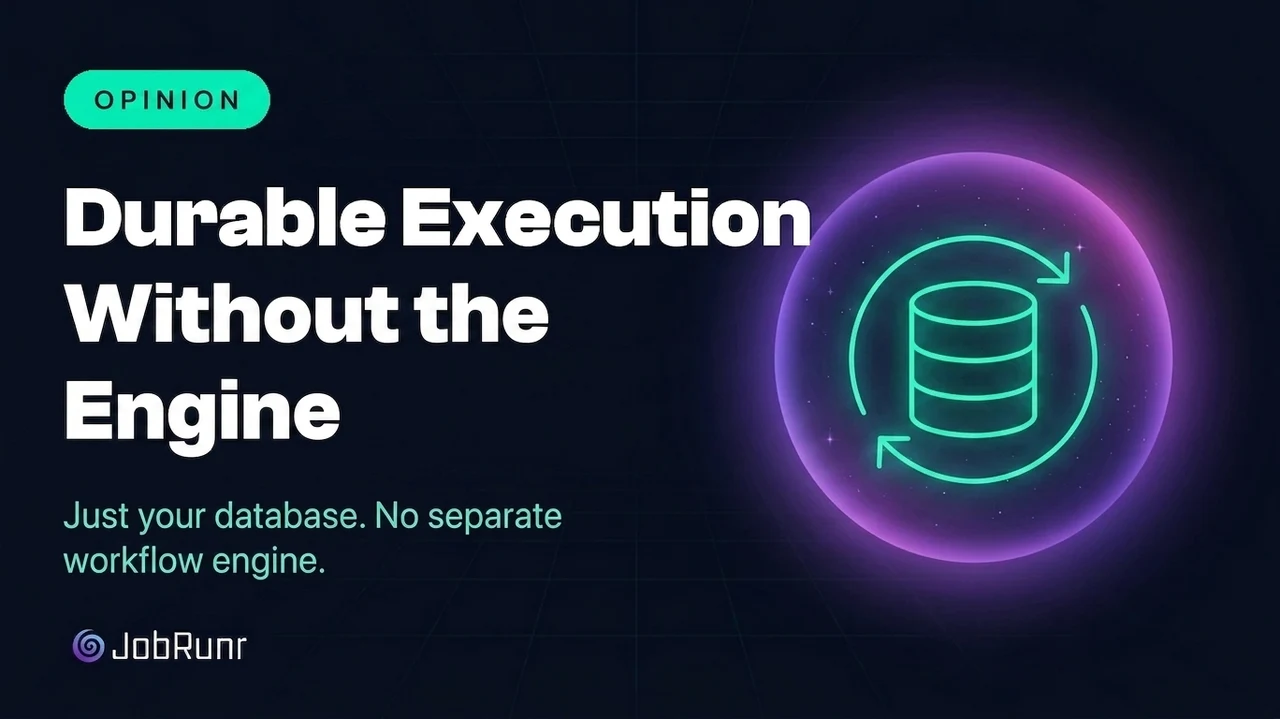
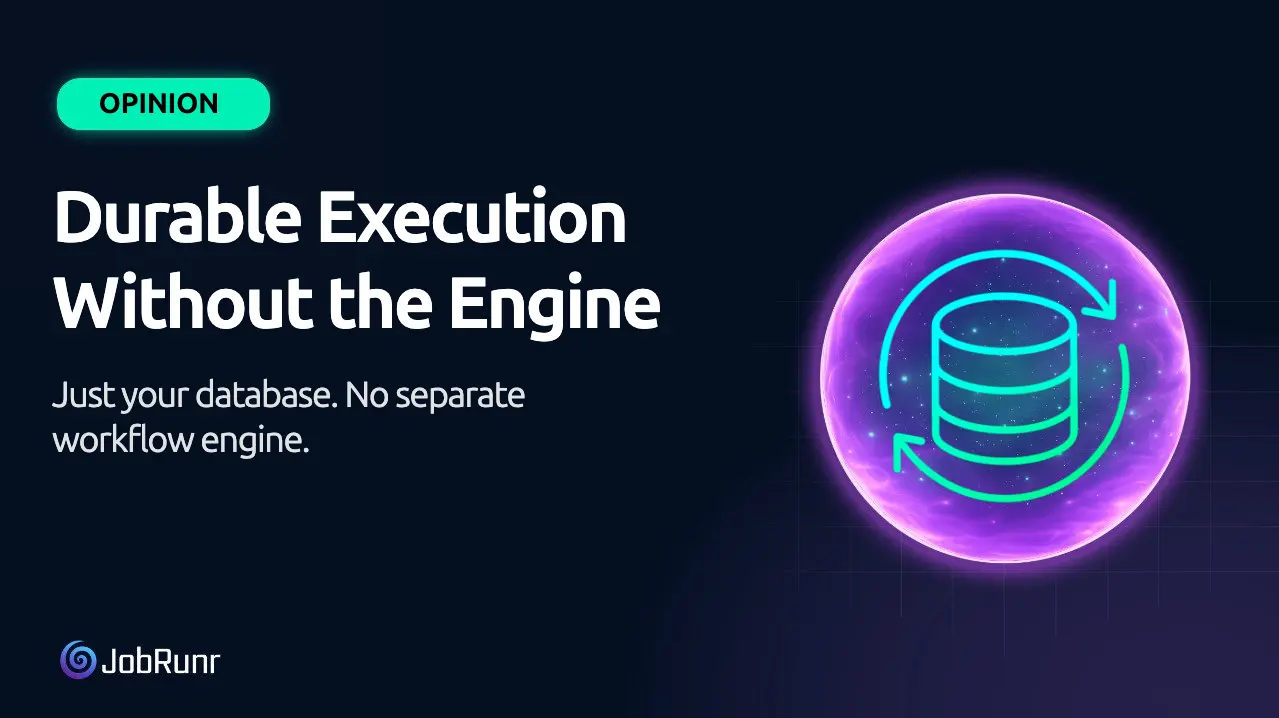
durable execution blogpost

diff --git a/content/english/blog/durable-execution-without-a-workflow-engine.md b/content/english/blog/durable-execution-without-a-workflow-engine.md
@@ -5,9 +5,8 @@ keywords: ["durable execution", "durable execution java", "temporal alternative 
 images:
   - /blog/durable-execution-without-a-workflow-engine.webp
 image: /blog/durable-execution-without-a-workflow-engine.webp
-date: 2026-06-11T10:00:00+02:00
+date: 2026-07-09T10:00:00+02:00
 author: "Nicholas D'hondt"
-draft: true
 tags:
   - blog
   - durable execution
@@ -17,31 +16,33 @@ tags:
 
 Durable execution is having a moment, and most of the moment comes with a sales pitch attached. Write ordinary code, the story goes, and it will survive any crash, any restart, any bad deploy. That part is true and genuinely worth wanting. The part that quietly rides along with it is the assumption that to get there you need to stand up a new distributed system next to the one you already run.
 
-We covered the fundamentals in [What Is Durable Execution?]({{<ref "blog/what-is-durable-execution-java.md">}}), so this post takes the harder question head on. Do you actually need a dedicated workflow engine to get durable execution in Java? Our answer, after running the experiments below, is that most teams do not. They need durable jobs, and they almost certainly already have the one piece of infrastructure required to get them.
+We covered the fundamentals in [What Is Durable Execution?]({{<ref "blog/what-is-durable-execution-java.md">}}), so this post takes the harder question head on. Do you actually need a dedicated workflow engine to get durable execution in Java? Our answer, after running the experiments below, is that most teams don't. They need durable jobs, and they almost certainly already have the one piece of infrastructure required to get them.
 
-Let us make the case properly, including the parts that do not flatter our own tool.
-
-> **Short answer:** A workflow engine like Temporal buys you full deterministic replay, which is real and powerful. It also charges you a real bill, with a separate clustered service to operate, a determinism contract your code must obey, and workflow versioning to manage. For the long-running, deeply branching, multi-language orchestrations, that trade is worth it. For the background jobs the rest of us run every day, a database-backed scheduler gives you persistence, automatic retries, and exactly-once steps with nothing extra to operate. And because even the big engines run your side effects at-least-once, you write idempotent steps either way.
+> **Short answer:** A **workflow engine** like Temporal buys you **full deterministic replay**, which is real and powerful. It also charges you **a real bill**, with a separate clustered service to operate, a determinism contract your code must obey, and workflow versioning to manage. For the long-running, deeply branching, multi-language orchestrations, that trade is worth it.
+> <br/><br/>
+> For the background jobs the rest of us run every day, a **database-backed scheduler** gives you **persistence, automatic retries, and checkpointed steps** that skip on retry, with **nothing extra to operate**. And because even the big engines run your side effects at-least-once, you write [idempotent]({{<ref "blog/Idempotence-in-java-job-scheduling.md">}}) steps either way.
 
 ## Two definitions of "durable execution"
 
-There are two ideas wearing the same name, and conflating them is how teams end up over-buying.
+There are two ideas wearing the same name, and mixing them up is how teams end up over-buying.
 
-The first is the property. Important work survives crashes and resumes instead of starting over. You want this for almost anything that runs in the background.
+The first is **the property**: important work survives crashes and resumes instead of starting over. You want this for almost anything that runs in the background.
 
-The second is the product category. A class of engines that deliver the property through deterministic event-sourced replay, where the engine records a journal of every step and, after a failure, re-runs your orchestration code from the top while feeding it the recorded results so it lands back exactly where it crashed.
+The second is **the product category**: a class of engines that deliver the property through deterministic event-sourced replay, where the engine records a journal of every step and, after a failure, re-runs your orchestration code from the top while feeding it the recorded results so it lands back exactly where it crashed.
 
-The property is the goal. Event-sourced replay is one implementation of it, and a heavy one. A database-backed job scheduler reaches the same property by a lighter route, checkpointing completed steps rather than replaying the entire function. Both make your work durable. They simply pay for it differently, and the difference in price is the whole story.
+The property is the goal. Event-sourced replay is one implementation of it, and a heavy one. A database-backed job scheduler reaches the same property by a lighter route, checkpointing completed steps rather than replaying the entire function. Both make your work durable; they just pay for it differently, and the price difference is the whole story.
 
 ## The bill the engine hands you
 
-The durable execution engines are good software built by serious people. None of what follows is a knock on their quality. It is the operational and cognitive cost their model requires, taken straight from their own documentation, because that is the fairest possible source.
+The durable execution engines are good software built by serious people, and none of what follows is a knock on their quality. It is about the operational and cognitive cost their model requires, taken straight from their own documentation because that is the fairest possible source.
 
 ### You operate a distributed system to run your distributed system
 
-Temporal's own architecture docs describe a cluster made of four independently scaling services, the Frontend, History, Matching, and internal Worker services, each with different scaling characteristics and recommended to run separately in production ([Temporal Service docs](https://docs.temporal.io/temporal-service/temporal-server)). That cluster cannot run on its own. It requires an external persistence store, with Cassandra, PostgreSQL, or MySQL as the supported options, and for production-grade search and visibility the docs point you to Elasticsearch ([Temporal persistence docs](https://docs.temporal.io/temporal-service/persistence)).
+Temporal's own architecture docs describe a cluster made of four independently scaling services, the Frontend, History, Matching, and internal Worker services, each with different scaling characteristics and recommended to run separately in production ([Temporal Service docs](https://docs.temporal.io/temporal-service/temporal-server)). That cluster cannot run on its own. It requires its own persistence store to hold workflow histories and visibility data, separate from the database your application already uses ([Temporal persistence docs](https://docs.temporal.io/temporal-service/persistence)).
 
-So before your first workflow runs, the self-hosted picture is four services, a database, and an Elasticsearch cluster, plus your own worker fleet that polls task queues. Temporal Cloud exists precisely so you can pay someone else to run that for you, which tells you how much there is to run.
+So before your first workflow runs, the self-hosted picture is four services and a dedicated datastore, plus your own worker fleet that polls task queues. Temporal Cloud exists precisely so you can pay someone else to run that for you, which tells you how much there is to run.
+
+{{< svg "assets/blog/workflow-engine-vs-jobrunr-architecture.svg" >}}
 
 Restate is lighter here, and credit where it is due. It ships as a single Rust binary and is pleasant to operate ([Restate key concepts](https://docs.restate.dev/foundations/key-concepts)). It is still a separate stateful service in your architecture, sitting in front of your application and owning the journal, with its own deployment, upgrades, and failure modes to understand.
 
@@ -49,17 +50,11 @@ Restate is lighter here, and credit where it is due. It ships as a single Rust b
 
 This is the cost people underestimate, because it does not show up on an architecture diagram. It shows up in your code review.
 
-In Temporal, the orchestration code lives in a Workflow, and that code must be deterministic, because it is replayed from history after every failure ([Workflow definition](https://docs.temporal.io/workflow-definition)). Concretely, the Java SDK docs tell you that inside Workflow code you must not use `System.currentTimeMillis()` and must call `Workflow.currentTimeMillis()` instead, must not generate random values or `UUID.randomUUID()` directly, must not start native threads or use `Thread.sleep`, `Future`, or `CompletableFuture`, and must keep all input and output serializable ([Java workflow basics](https://docs.temporal.io/develop/java/workflows/basics)). Anything that touches the clock, the network, randomness, or the file system belongs in an Activity, not the Workflow.
-
-That is a real mental model, and it is not optional. A single accidental `Instant.now()` in the wrong method is a latent bug that surfaces only when a replay produces a different command sequence than the recorded history, which fails the execution with a non-determinism error ([Java versioning docs](https://docs.temporal.io/develop/java/workflows/versioning)).
+Temporal workflow code is replayed from history after every failure, so it must be deterministic ([Workflow definition](https://docs.temporal.io/workflow-definition)). No reading the clock, no random values or UUIDs, no threads, no I/O. Anything that touches the real world has to move into an Activity.
 
 ### Changing a running workflow is its own discipline
 
-Because old executions replay against old history, you cannot freely edit a long-running workflow. Temporal's guidance is to use `Workflow.getVersion` (patching) for any change to workflow code, recording a marker in history so old and new executions take the correct path, and to run replay tests against representative production histories before you deploy ([versioning](https://docs.temporal.io/develop/java/workflows/versioning), [safe deployments](https://docs.temporal.io/develop/safe-deployments)). For a workflow that lives for weeks, every code change is a versioning decision. That is the right design for their model. It is also work you would not otherwise be doing.
-
-### There are limits you have to architect around
-
-A single Temporal Workflow Execution has a hard limit of 51,200 events or 50 MB of history, with a warning already at 10,240 events or 10 MB ([execution limits](https://docs.temporal.io/workflow-execution/limits)). The prescribed escape hatch for long or chatty workflows is Continue-As-New, which atomically closes the current run and starts a fresh one with a clean history ([very long-running workflows](https://temporal.io/blog/very-long-running-workflows)). Again, sensible engineering for the model. Again, a thing you now own.
+Because old executions replay against old history, you cannot freely edit a long-running workflow. Temporal's recommended approach today is Worker Versioning, where you pin running executions to the worker deployment that started them, with `Workflow.getVersion` patching as the in-place alternative, and replay tests against representative production histories before you deploy ([versioning](https://docs.temporal.io/develop/java/workflows/versioning), [safe deployments](https://docs.temporal.io/develop/safe-deployments)). So when a workflow runs for weeks, every code change you ship in the meantime turns into a versioning question. Fair enough, the replay model demands it, but it's a discipline you simply wouldn't have to learn with a plain job queue.
 
 ### What the boilerplate looks like
 
@@ -76,9 +71,9 @@ public interface OrderWorkflow {
 // 2. The activity interface (everything non-deterministic lives here)
 @ActivityInterface
 public interface OrderActivities {
+    void reserveInventory(String orderId);
     void charge(String orderId);
-    void reserveStock(String orderId);
-    void sendConfirmation(String orderId);
+    void scheduleShipment(String orderId);
 }
 
 // 3. The workflow implementation. Deterministic only.
@@ -92,9 +87,9 @@ public class OrderWorkflowImpl implements OrderWorkflow {
 
     @Override
     public void processOrder(String orderId) {
+        activities.reserveInventory(orderId);
         activities.charge(orderId);
-        activities.reserveStock(orderId);
-        activities.sendConfirmation(orderId);
+        activities.scheduleShipment(orderId);
     }
 }
 
@@ -122,38 +117,42 @@ workflow.processOrder(orderId);
 
 None of that is bad code. It is the price of admission for deterministic replay, and behind it sits the cluster and datastore from earlier. Hold this example in mind, because the JobRunr version of the same job is a single annotated method.
 
+**Spoiler:** [jump right to the JobRunr implementation](#the-lighter-route-durable-execution-on-the-database-you-already-have).
+
 ## The detail the pitch skips: exactly-once is not what you think
 
 Here is the point that quietly levels the field, and it comes from Temporal's own documentation.
 
-Temporal provides exactly-once semantics for Workflow *logic* and at-least-once semantics for *Activities* ([workflow execution](https://docs.temporal.io/workflow-execution)). Read that again, because it is the whole game. The orchestration runs as if once. The steps that actually touch the world, the ones that charge a card or call an API, can run more than once. That is why every durable execution engine, Temporal and Restate included, tells you in plain language that your steps must be idempotent.
+Temporal runs your Workflow *logic* exactly once and to completion ([Temporal docs](https://docs.temporal.io/temporal)), but your *Activities* "may be executed multiple times" ([Activity definition](https://docs.temporal.io/activity-definition#idempotency)). Read that again, because it is the whole game. The orchestration runs as if once. The steps that actually touch the world, the ones that charge a card or call an API, can run more than once. That is why every durable execution engine, Temporal and Restate included, tells you in plain language that your steps must be [idempotent]({{<ref "blog/Idempotence-in-java-job-scheduling.md">}}).
 
-So the determinism contract and the separate cluster do not buy you exactly-once side effects. They cannot, because the universe does not offer that guarantee across a process that can die at any instant. What they buy you is exactly-once orchestration with full in-memory replay. The idempotency work, the part that actually prevents the double charge, is still yours to do, exactly as it is with a job scheduler.
+So the determinism contract and the separate cluster don't buy you exactly-once side effects. They can't, because the universe doesn't offer that guarantee across a process that can die at any instant. What they buy you is exactly-once orchestration with full in-memory replay. The [idempotency]({{<ref "blog/Idempotence-in-java-job-scheduling.md">}}) work, the part that actually prevents the double charge, is still yours to do, exactly as it is with a job scheduler.
 
 Once you see that, the comparison changes. The question is no longer "durable engine versus unsafe jobs." It is "two ways to get durable orchestration, both of which require idempotent steps, one of which needs a new distributed system and a determinism contract, and one of which needs the database you already run."
 
 ## The lighter route: durable execution on the database you already have
 
-A database-backed job scheduler gets you the durable execution property without the engine. With [JobRunr](https://github.com/jobrunr/jobrunr), the moving parts are these, and most of them are in the free, open-source version.
+A database-backed job scheduler gets you the durable execution property without the engine. With [JobRunr](https://github.com/jobrunr/jobrunr), the moving parts are these, and all of them are in the free, open-source version.
 
-Your jobs are persisted, not held in memory. Enqueue a job and JobRunr serializes it into your existing SQL or NoSQL database, the same one your app already uses, no Redis and no broker. If the app restarts, the job is still there. Failed jobs retry automatically with exponential back-off, up to ten attempts by default, which you can tune in [Dealing with exceptions]({{<ref "documentation/background-methods/dealing-with-exceptions.md">}}). Jobs stranded on a server that crashed are detected as zombie jobs and picked back up, because JobRunr elects a master node to handle exactly that. That is persistence, automatic retries, and crash recovery, the core of the durable execution property, with zero extra infrastructure.
+Your jobs are persisted, not held in memory. Enqueue a job and JobRunr serializes it into your existing SQL or NoSQL database, no Redis and no broker. If the app restarts, the job is still there. Failed jobs retry automatically with exponential back-off, up to ten attempts by default, which you can tune in [Dealing with exceptions]({{<ref "documentation/background-methods/dealing-with-exceptions.md">}}). Jobs stranded on a server that crashed are detected as zombie jobs and picked back up, because JobRunr elects a master node to handle exactly that.
 
-For multi-step work, JobRunr v8 shipped a feature named, fittingly, durable executions, through `JobContext.runStepOnce`. You break a job into named steps that each run exactly once, and on a retry the completed steps are skipped. The entire order workflow from the Temporal example above looks like this:
+That is persistence, automatic retries, and crash recovery, the core of the durable execution property, with zero extra infrastructure.
+
+For multi-step work, JobRunr v8 shipped a feature named, fittingly, durable executions, through `JobContext.runStepOnce`. You break a job into named steps, JobRunr checkpoints each one as it completes, and a retry never re-runs a completed step. The entire order workflow from the Temporal example above looks like this:
 
 ```java
 @Job(name = "Process order %0", retries = 5)
 public void processOrder(String orderId, JobContext jobContext) {
-    jobContext.runStepOnce("charge-payment",   () -> paymentService.charge(orderId));
-    jobContext.runStepOnce("reserve-stock",    () -> stockService.reserve(orderId));
-    jobContext.runStepOnce("send-confirmation",() -> emailService.sendConfirmation(orderId));
+    jobContext.runStepOnce("reserve-inventory", () -> inventoryService.reserve(orderId));
+    jobContext.runStepOnce("charge-payment",    () -> paymentService.charge(orderId));
+    jobContext.runStepOnce("schedule-shipment", () -> shippingService.schedule(orderId));
 }
 ```
 
-One class, one method, plain Java. No determinism contract, because this is not replayed code, it is normal code with checkpoints. You can call the clock, generate a UUID, and read config wherever you like. The only discipline you keep is the one you keep anyway, namely making the steps that touch the world safe to repeat.
+One class, one method, plain Java. No determinism contract, because this isn't replayed code, it's normal code with checkpoints. You can call the clock, generate a UUID, and read config wherever you like. The only discipline you keep is the one you keep anyway: making the steps that touch the world safe to repeat.
 
 ## We tested it, including where it bites
 
-Claims are cheap, so we built the order job above against a real PostgreSQL database and ran two scenarios. The full project is a single Maven module with JobRunr 8.6.1 and Postgres. Each step writes one row to a `ledger` table, so counting rows tells us, with no room for interpretation, how many times each side effect actually happened.
+Claims are cheap, so we built the order job above, step names and all, against a real PostgreSQL database and ran two scenarios. The full project is a single Maven module with JobRunr 8.6.1 and Postgres, and the complete code is [on GitHub](https://github.com/iNicholasBE/temporal-vs-jobrunr-benchmark) so you can run both scenarios yourself. Each step writes one row to a `ledger` table, so counting rows tells us, with no room for interpretation, how many times each side effect actually happened.
 
 **Scenario one, a transient failure.** The shipping step throws an exception on its first attempt, the way a flaky downstream API would. JobRunr retries the whole job. The result, straight from the database:
 
@@ -167,7 +166,7 @@ Claims are cheap, so we built the order job above against a real PostgreSQL data
 
 Exactly once for every step. On the retry, the two completed steps were skipped and only the failed step ran again. This is `runStepOnce` doing precisely what it promises, and it is the case the feature is built for. The customer is charged once.
 
-**Scenario two, a hard crash in the worst possible spot.** We killed the JVM with a `halt`, the equivalent of `kill -9`, in the microsecond window right after the payment was charged but before the step was checkpointed to the database. A fresh process then recovered the orphaned job:
+**Scenario two, a hard crash in the worst possible spot.** We killed the JVM with a `halt`, the equivalent of `kill -9`, right after the payment was charged but before the step's checkpoint reached the database. A fresh process then recovered the orphaned job:
 
 ```text
        step        | count
@@ -177,37 +176,56 @@ Exactly once for every step. On the retry, the two completed steps were skipped 
  schedule-shipment |     1
 ```
 
-The payment ran twice. We are showing you this on purpose, because it is the honest boundary of the lighter model and you deserve to know exactly where it is. `runStepOnce` checkpoints a completed step to the database at the poll interval. If the process dies in the slice of time after a side effect but before its checkpoint is written, the recovering worker has no record that the step finished, so it runs again.
+The payment ran twice. We are showing you this on purpose, because it is the honest boundary of the lighter model and you deserve to know exactly where it is. `runStepOnce` checkpoints completed steps to the database at the poll interval, so the vulnerable window is not some freak microsecond, it can be seconds wide. If the process dies after a side effect but before its checkpoint is written, the recovering worker has no record that the step finished and runs it again. That is also why `reserve-inventory` shows two rows: its checkpoint was waiting on the same flush when the process died, so it replayed too.
 
-And now the punchline you have already met. A full engine does not save you here either. Temporal runs activities at-least-once for the same fundamental reason, a process can die after the side effect and before the result is journaled. The fix in both worlds is identical. Make the money-moving step idempotent, with a provider idempotency key or a pre-check, and the second attempt becomes a no-op. We wrote the patterns up in [Why is Idempotence Important in Java Job Scheduling?]({{<ref "blog/Idempotence-in-java-job-scheduling.md">}}). The lesson is that the expensive engine and the lightweight scheduler leave you holding the same small, well-understood responsibility.
+{{< svg "assets/blog/runsteponce-crash-test-ledger.svg" >}}
 
-## What about DBOS, the other "just your Postgres" option
+And now the punchline you have already met. A full engine doesn't save you here either. Temporal runs activities at-least-once for the same fundamental reason, a process can die after the side effect and before the result is journaled. The fix in both worlds is identical. Make the money-moving step idempotent, with a provider idempotency key or a pre-check, and the second attempt becomes a no-op. We wrote the patterns up in [Why is Idempotence Important in Java Job Scheduling?]({{<ref "blog/Idempotence-in-java-job-scheduling.md">}}).
 
-To be fair to the landscape, JobRunr is not the only tool making the database-only argument. DBOS is a durable execution library that embeds in your app and checkpoints workflow state to Postgres, with no separate orchestration server ([DBOS architecture](https://docs.dbos.dev/architecture)). It is genuinely close to the spirit of this post, and worth a look if you want library-based durable execution.
+JobRunr even hands you the key for it. A job keeps the same id across every retry and recovery, so `jobContext.getJobId()` is a ready-made idempotency key to pass along to your payment provider:
 
-The difference is the programming model. DBOS is still a durable execution framework, so it asks your workflows to be deterministic and your steps to be idempotent, the replay model in a library wrapper. JobRunr comes at it from the job scheduler side. You enqueue normal method calls, you get a dashboard, recurring jobs, batches, and queues, and `runStepOnce` adds exactly-once steps when you want them. If your mental model is "background jobs that happen to be durable," a scheduler fits your hand. If your mental model is "durable functions first," a durable execution library will feel more native. Pick the abstraction that matches how your team already thinks.
+```java
+jobContext.runStepOnce("charge-payment", () ->
+    paymentService.charge(orderId, jobContext.getJobId().toString()));
+```
 
-## So which one do you actually need
+When the recovered job runs the step again, it sends the same key, the provider recognizes it, and the double charge from scenario two turns into a no-op.
 
-Here is the honest decision table.
+## We also raced them: 1000 orders, fair rules
 
-| Your situation | The fitting tool |
-| :--- | :--- |
-| Reliable multi-step background jobs, pipelines, integrations, reports | Database-backed scheduler, for example JobRunr |
-| You want durability without operating a new service | Database-backed scheduler |
-| Workflows that pause for days, weeks, or months awaiting human or external input | Workflow engine, for example Temporal or Restate |
-| Deeply branching orchestration that needs full in-memory replay and per-workflow versioning | Workflow engine |
-| One workflow coordinating services across several languages | Workflow engine |
-| You need signals, queries, and child workflows as first-class primitives | Workflow engine |
+Correctness was only half the question, so we benchmarked the cost too. We implemented the exact same three-step order fulfillment workflow twice, once as the Temporal workflow you saw above and once as the single JobRunr method, and pushed 1000 orders through each with 24 workers. The harness lives in the same [GitHub repo](https://github.com/iNicholasBE/temporal-vs-jobrunr-benchmark) as the crash test.
 
-_Table: matching the tool to the job_
+And because a rigged benchmark would be worse than no benchmark, we deliberately stacked the deck in Temporal's favor wherever there was a choice to make. No dev server with its in-memory store: Temporal ran the real self-hosted production image against its own PostgreSQL 16, with 512 history shards, Temporal's own production default. Workflow starts were issued from 24 concurrent threads, because sequential starts would have unfairly inflated Temporal's enqueue time. And we raised the worker's task pollers from the SDK default of 5 to 24, because the default quietly throttles fast activities and we wanted to measure the engine, not a misconfiguration. 
 
-The engines are the right answer for the heaviest orchestration problems, and the capabilities listed in their column are real and hard to replicate. The mistake is reaching for that column when your actual problem lives in the first one, which for most Java teams running background work, it does. You pay the full operational and cognitive cost of an orchestration platform to solve a problem a persistent job queue already solves.
+JobRunr got nothing special: a plain Postgres container and default settings. Then we ran the whole suite twice over, on a 14-core Apple Silicon Mac and on a dedicated 8-core Hetzner server, so nobody can blame the laptop.
 
-## The honest conclusion
+Here is what the same 1000 orders cost, on both machines:
 
-Durable execution is a property worth wanting, not a product you are obligated to buy. The property is persistence, journaled steps, automatic retries, and idempotent side effects. A workflow engine delivers it through deterministic replay, which is powerful and which costs you a clustered service, a determinism contract, and workflow versioning. A database-backed scheduler like JobRunr delivers the same property through checkpointed steps, on the database you already run, with the side-effect idempotency that you would owe the engine anyway.
+| 1000 orders, 24 workers | Mac: JobRunr | Mac: Temporal | Hetzner: JobRunr | Hetzner: Temporal |
+| :--- | ---: | ---: | ---: | ---: |
+| Instant steps | **1.4 s** | 14.3 s | **1.8 s** | 13.6 s |
+| 25 ms per step | **8.4 s** | 15.4 s | **8.4 s** | 13.7 s |
+| CPU, all processes | **3.9 cpu-s** | 38.9 cpu-s | **13.3 cpu-s** | 83.2 cpu-s |
+| Peak memory | **340 MB** | 996 MB | **388 MB** | 868 MB |
 
-We showed you the case it handles perfectly and the case where it bites, because a recommendation is only worth as much as its honesty. For the long-running, multi-language, deeply branching orchestrations, reach for the engine and do not look back. For the background jobs the rest of us ship every week, durable enough, on infrastructure you already operate, is not a compromise. It is the right amount of machinery.
+The numbers worth staring at are not the totals, they are the first two rows read together. Add 25 ms of simulated API latency to every step and JobRunr's total grows several times over, because JobRunr spends its time waiting on the actual work. Temporal's total barely moves on either machine, because the actual work was already hiding inside the engine's own overhead: every step becomes task-queue dispatches, gRPC round trips, and durable history writes. For a job this size, the orchestrator, not your code, is the bottleneck.
 
-Want to try the lighter route? [Get started with JobRunr]({{<ref "documentation/_index.md">}}), reach for `runStepOnce` on your next multi-step job, and keep your card-charging steps idempotent. That last habit is the one piece no tool, however expensive, will ever do for you.
+Same fairness in the other direction: that overhead is not waste, it is the receipt for the features from earlier in this post, the full event history, replay debugging, queryable state, signals, and timers. If you need those, the bill is worth paying. The benchmark just puts a number on the bill, and for a three-step background job it is roughly six to ten times the CPU, twice the memory, and a second database, to run the same 1000 orders slower.
+
+## So which one do you actually need?
+
+Three questions decide it: does your orchestration branch so deeply that you need full replay and workflow versioning, does one workflow coordinate services written in several languages, and do you need signals, queries and child workflows as first-class primitives?
+
+{{< svg "assets/blog/workflow-engine-decision-tree.svg" >}}
+
+The engines are the right answer for the heaviest orchestration problems, and the capabilities behind those three questions are real and hard to replicate. The mistake is reaching for an engine when your answer to all three is no, and for most Java teams running background work, it is no to all three. You pay the full operational and cognitive cost of an orchestration platform to solve a problem a persistent job queue already solves.
+
+And one case that looks like engine territory but is not: jobs that wait days or weeks on an external system or a human sign-off. JobRunr Pro parks these as [External Jobs]({{<ref "guides/advanced/external-jobs.md">}}), a plain row in your database that consumes no worker threads until the completion signal arrives.
+
+## Where this leaves you
+
+Durable execution is a property worth wanting, not a product you are obligated to buy. The property is persistence, checkpointed steps, automatic retries, and idempotent side effects. A workflow engine delivers it through deterministic replay, which is powerful and costs you a clustered service, a determinism contract, and workflow versioning. A database-backed scheduler like JobRunr delivers the same property on the database you already run, with the side-effect [idempotency]({{<ref "blog/Idempotence-in-java-job-scheduling.md">}}) that you would owe the engine anyway.
+
+We showed you the case it handles perfectly and the case where it bites. For the long-running, multi-language, deeply branching orchestrations, reach for the engine and don't look back. For the background jobs the rest of us ship every week, durable enough, on infrastructure you already operate, is not a compromise, it is the right amount of machinery.
+
+Want to try the lighter route? [Get started with JobRunr]({{<ref "documentation/_index.md">}}), reach for `runStepOnce` on your next multi-step job, and keep your card-charging steps [idempotent]({{<ref "blog/Idempotence-in-java-job-scheduling.md">}}). That last habit is the one piece no tool, however expensive, will ever do for you.